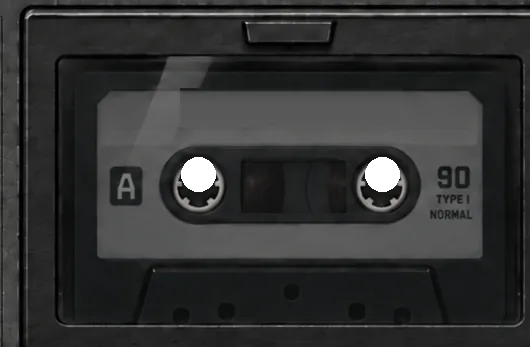
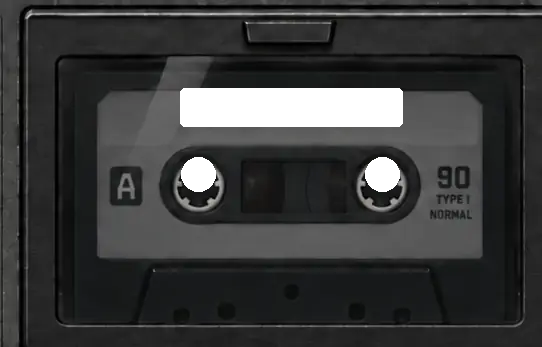
Restore cassette glass right edge

diff --git a/css/looper.css b/css/looper.css
@@ -143,7 +143,7 @@
   text-shadow:0 1px rgba(255,255,255,.25),0 -1px rgba(0,0,0,.25);
 }
 #looper .cassetteReferenceOverlay{
-  position:absolute;z-index:19;top:11.51%;left:38.674%;width:36.602%;height:auto;
+  position:absolute;z-index:19;top:11.51%;left:38.674%;width:37.431%;height:auto;
   display:block;pointer-events:none;user-select:none;
 }
 
